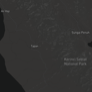
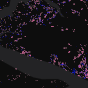
Update default basemaps to GFW mapbox styles. (Work in progress - not complete)

diff --git a/app/redux-modules/basemaps.js b/app/redux-modules/basemaps.js
@@ -1,16 +1,27 @@
 // @flow
 import type { Basemap, BasemapsAction, BasemapsState } from 'types/basemaps.types';
-import MapboxGL from '@react-native-mapbox-gl/maps';
 
 // Actions
 const ADD_BASEMAP = 'basemaps/ADD_BASEMAP';
 
 // Constants
 const allDefaultMapboxStyles = [
-  [MapboxGL.StyleURL.Satellite, 'Satellite', require('assets/basemap_satellite.png')],
-  [MapboxGL.StyleURL.Light, 'Light', require('assets/basemap_light.png')],
-  [MapboxGL.StyleURL.Dark, 'Dark', require('assets/basemap_dark.png')],
-  [MapboxGL.StyleURL.Street, 'Street', require('assets/basemap_street.png')]
+  [
+    'mapbox://styles/resourcewatch/cjww7iv8i07yx1cmjtgazn3r0?fresh=true',
+    'Default',
+    require('assets/basemap_default.png')
+  ],
+  ['mapbox://styles/resourcewatch/cjww836hy1kep1co5xp717jek?fresh=true', 'Dark', require('assets/basemap_dark.png')],
+  [
+    'mapbox://styles/resourcewatch/cjww89e5j08o91cmjsbrd47qt?fresh=true',
+    'Satellite',
+    require('assets/basemap_satellite.png')
+  ],
+  [
+    'mapbox://styles/resourcewatch/cjww8drml27wc1cn3mk2872h9?fresh=true',
+    'Landsat',
+    require('assets/basemap_landsat.png')
+  ]
 ];
 
 const mapboxBasemaps: Array<Basemap> = allDefaultMapboxStyles.map(style => {
